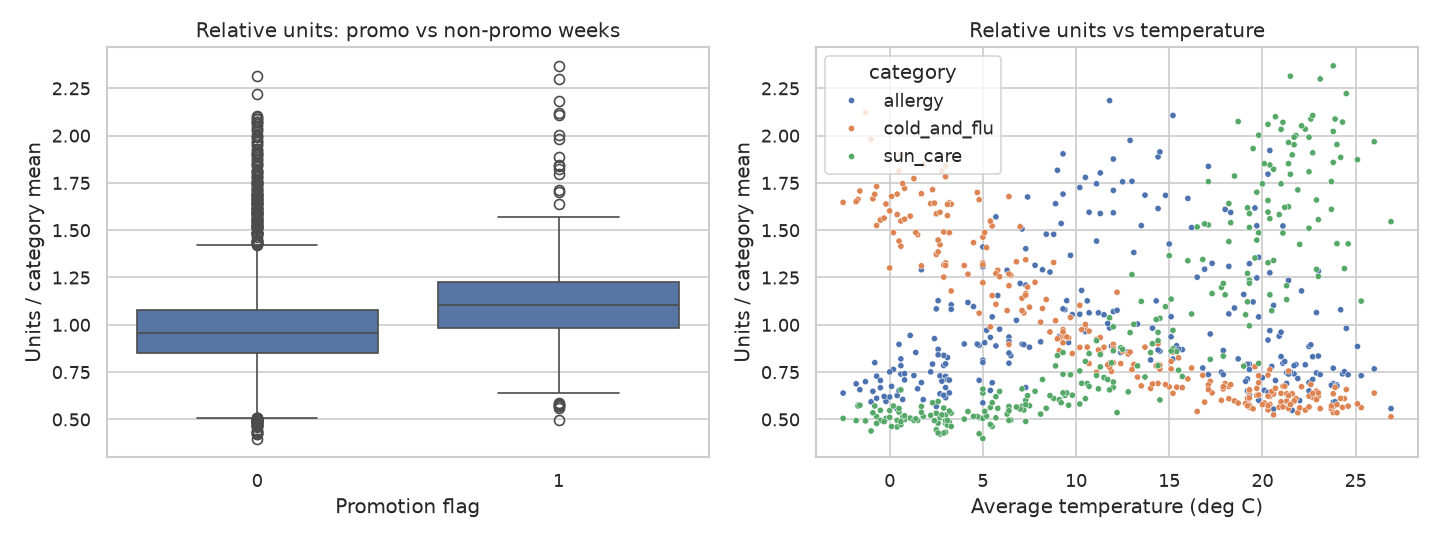
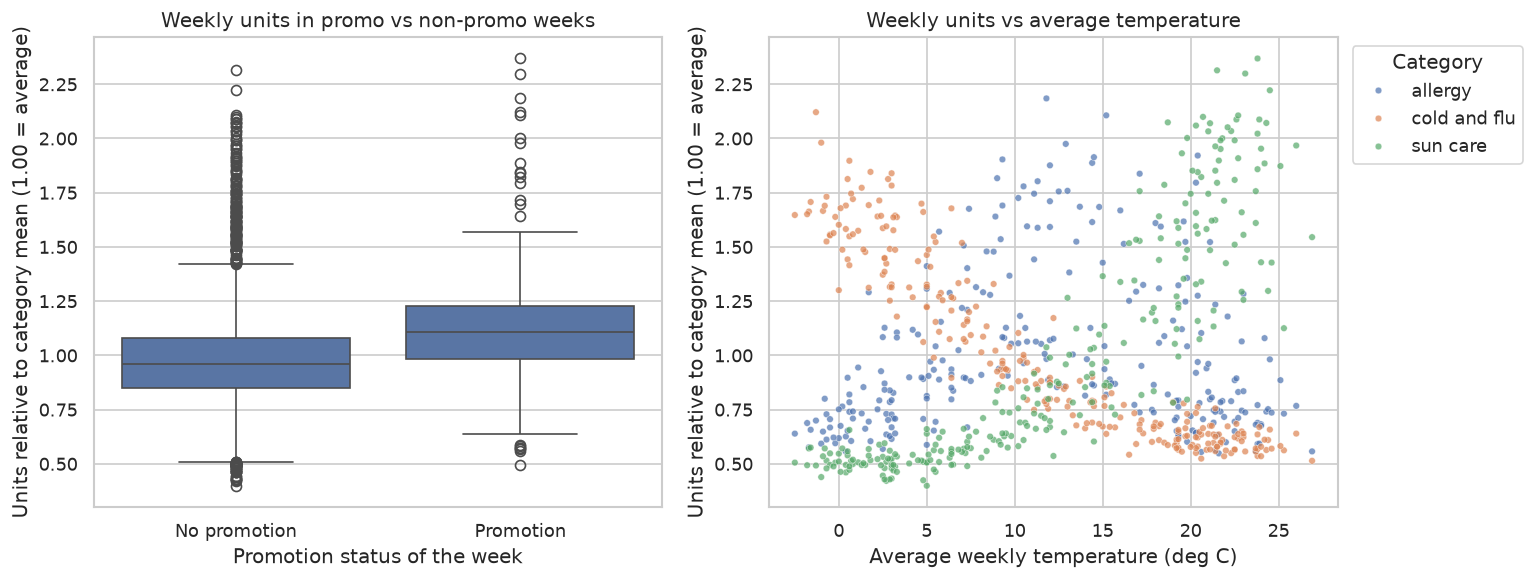
pharmacy-sales-seasonality: Improve chart labels, units and layout in EDA figures

Changed region(s): [[0.0, 0.0296, 1.0, 0.9778]]

diff --git a/pharmacy-sales-seasonality/src/eda.py b/pharmacy-sales-seasonality/src/eda.py
@@ -7,6 +7,7 @@ to figures/.
 Run from the project root (after python src/data_generator.py):
     python src/eda.py
 """
+import calendar
 from pathlib import Path
 
 import matplotlib
@@ -123,25 +124,34 @@ def aggregations(sales: pd.DataFrame, categories: pd.DataFrame) -> dict:
 
 def plot_weekly_series(sales: pd.DataFrame) -> None:
     """Weekly units per category, one panel each."""
-    g = sns.FacetGrid(sales, col="category", col_wrap=4, height=2.4, aspect=1.5, sharey=False)
+    # Replace underscores in category names for readable panel titles (display only)
+    plot_df = sales.assign(category=sales["category"].str.replace("_", " ", regex=False))
+    g = sns.FacetGrid(plot_df, col="category", col_wrap=4, height=2.6, aspect=1.5, sharey=False)
     g.map_dataframe(sns.lineplot, x="week_start", y="units_sold", linewidth=0.8)
-    g.set_titles("{col_name}")
-    g.set_axis_labels("Week", "Units sold")
+    g.set_titles("{col_name}", size=10)
+    g.set_axis_labels("Week start (Monday)", "Units sold per week")
     for ax in g.axes.flat:
         ax.tick_params(axis="x", rotation=45)
-    g.figure.suptitle("Weekly units sold by category (synthetic data)", y=1.02)
+        ax.yaxis.set_major_formatter(plt.matplotlib.ticker.StrMethodFormatter("{x:,.0f}"))
+    g.figure.suptitle("Weekly units sold by category, 2019-2023 (synthetic data)", y=1.02)
     g.savefig(FIG_DIR / "weekly_units_by_category.png", dpi=120, bbox_inches="tight")
     plt.close(g.figure)
 
 
 def plot_seasonal_heatmap(seasonal_index: pd.DataFrame) -> None:
     """Heatmap of the monthly seasonal index per category."""
-    fig, ax = plt.subplots(figsize=(9, 4.5))
-    sns.heatmap(seasonal_index, annot=True, fmt=".2f", cmap="coolwarm", center=1.0,
-                cbar_kws={"label": "Index (1.00 = category average)"}, ax=ax)
-    ax.set_title("Seasonal index by month and category (synthetic data)")
-    ax.set_xlabel("Month")
-    ax.set_ylabel("Category")
+    # Month numbers become month names; category names lose underscores (display only)
+    index_df = seasonal_index.rename(
+        columns=lambda m: calendar.month_abbr[m],
+        index=lambda s: s.replace("_", " "),
+    )
+    fig, ax = plt.subplots(figsize=(10, 5))
+    sns.heatmap(index_df, annot=True, fmt=".2f", cmap="coolwarm", center=1.0,
+                linewidths=0.5, cbar_kws={"label": "Seasonal index (1.00 = category average)"}, ax=ax)
+    ax.set_title("Seasonal index by month and medicine category (synthetic data)", pad=12)
+    ax.set_xlabel("Month of year")
+    ax.set_ylabel("Medicine category")
+    ax.set_yticklabels(ax.get_yticklabels(), rotation=0)
     fig.tight_layout()
     fig.savefig(FIG_DIR / "seasonal_index_heatmap.png", dpi=120)
     plt.close(fig)
@@ -149,24 +159,28 @@ def plot_seasonal_heatmap(seasonal_index: pd.DataFrame) -> None:
 
 def plot_promo_and_temperature(sales: pd.DataFrame) -> None:
     """Promo vs non-promo units and units vs temperature for selected categories."""
-    fig, axes = plt.subplots(1, 2, figsize=(12, 4.5))
+    fig, axes = plt.subplots(1, 2, figsize=(13, 5))
 
     # Units normalised by category mean so categories are comparable
     norm = sales.copy()
     norm["units_rel"] = norm["units_sold"] / norm.groupby("category")["units_sold"].transform("mean")
     sns.boxplot(data=norm, x="promo_flag", y="units_rel", ax=axes[0])
-    axes[0].set_title("Relative units: promo vs non-promo weeks")
-    axes[0].set_xlabel("Promotion flag")
-    axes[0].set_ylabel("Units / category mean")
+    axes[0].set_title("Weekly units in promo vs non-promo weeks")
+    axes[0].set_xticks([0, 1])
+    axes[0].set_xticklabels(["No promotion", "Promotion"])
+    axes[0].set_xlabel("Promotion status of the week")
+    axes[0].set_ylabel("Units relative to category mean (1.00 = average)")
 
-    subset = norm[norm["category"].isin(["cold_and_flu", "sun_care", "allergy"])]
-    sns.scatterplot(data=subset, x="avg_temp_c", y="units_rel", hue="category", s=14, ax=axes[1])
-    axes[1].set_title("Relative units vs temperature")
-    axes[1].set_xlabel("Average temperature (deg C)")
-    axes[1].set_ylabel("Units / category mean")
+    subset = norm[norm["category"].isin(["cold_and_flu", "sun_care", "allergy"])].copy()
+    subset["category"] = subset["category"].str.replace("_", " ", regex=False)
+    sns.scatterplot(data=subset, x="avg_temp_c", y="units_rel", hue="category", s=16, alpha=0.7, ax=axes[1])
+    axes[1].set_title("Weekly units vs average temperature")
+    axes[1].set_xlabel("Average weekly temperature (deg C)")
+    axes[1].set_ylabel("Units relative to category mean (1.00 = average)")
+    axes[1].legend(title="Category", loc="upper left", bbox_to_anchor=(1.01, 1))
 
     fig.tight_layout()
-    fig.savefig(FIG_DIR / "promo_and_temperature.png", dpi=120)
+    fig.savefig(FIG_DIR / "promo_and_temperature.png", dpi=120, bbox_inches="tight")
     plt.close(fig)
 
 
